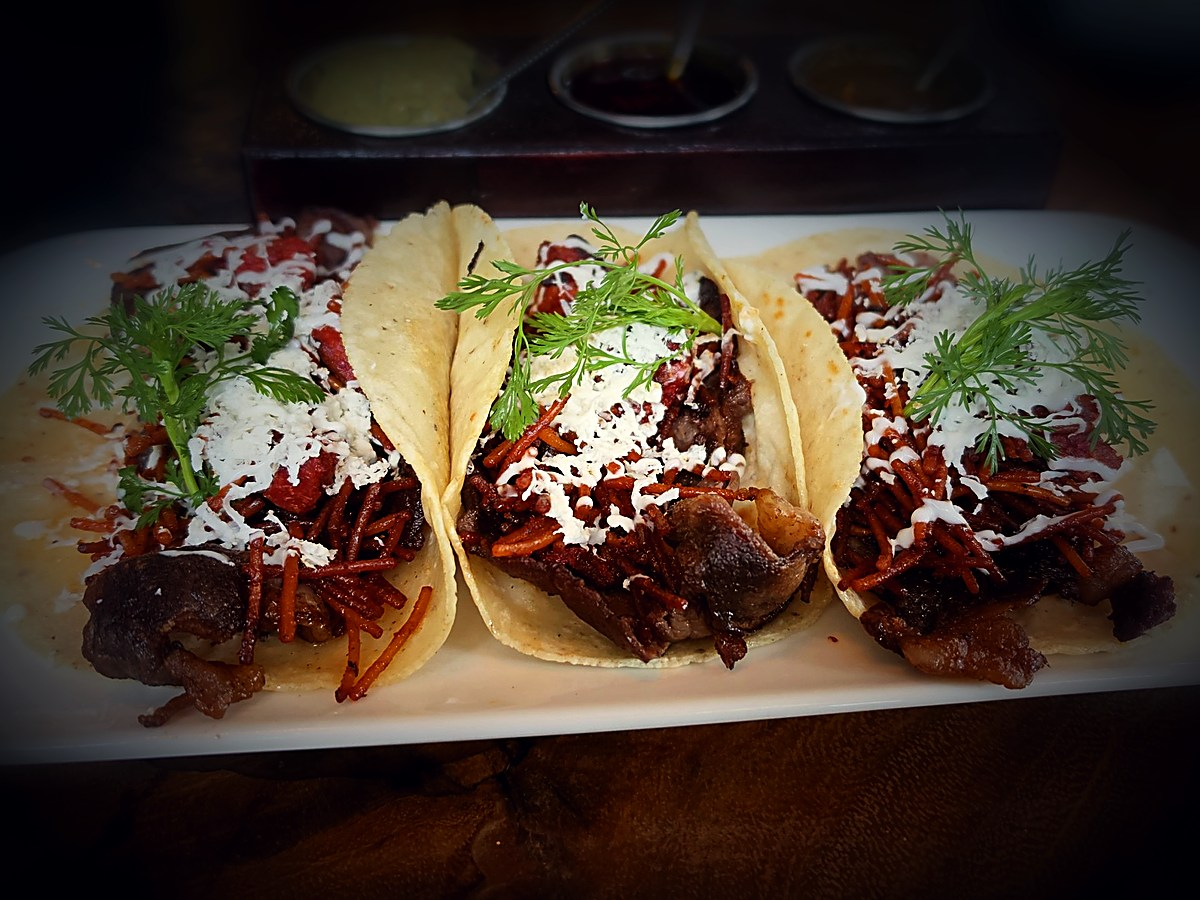
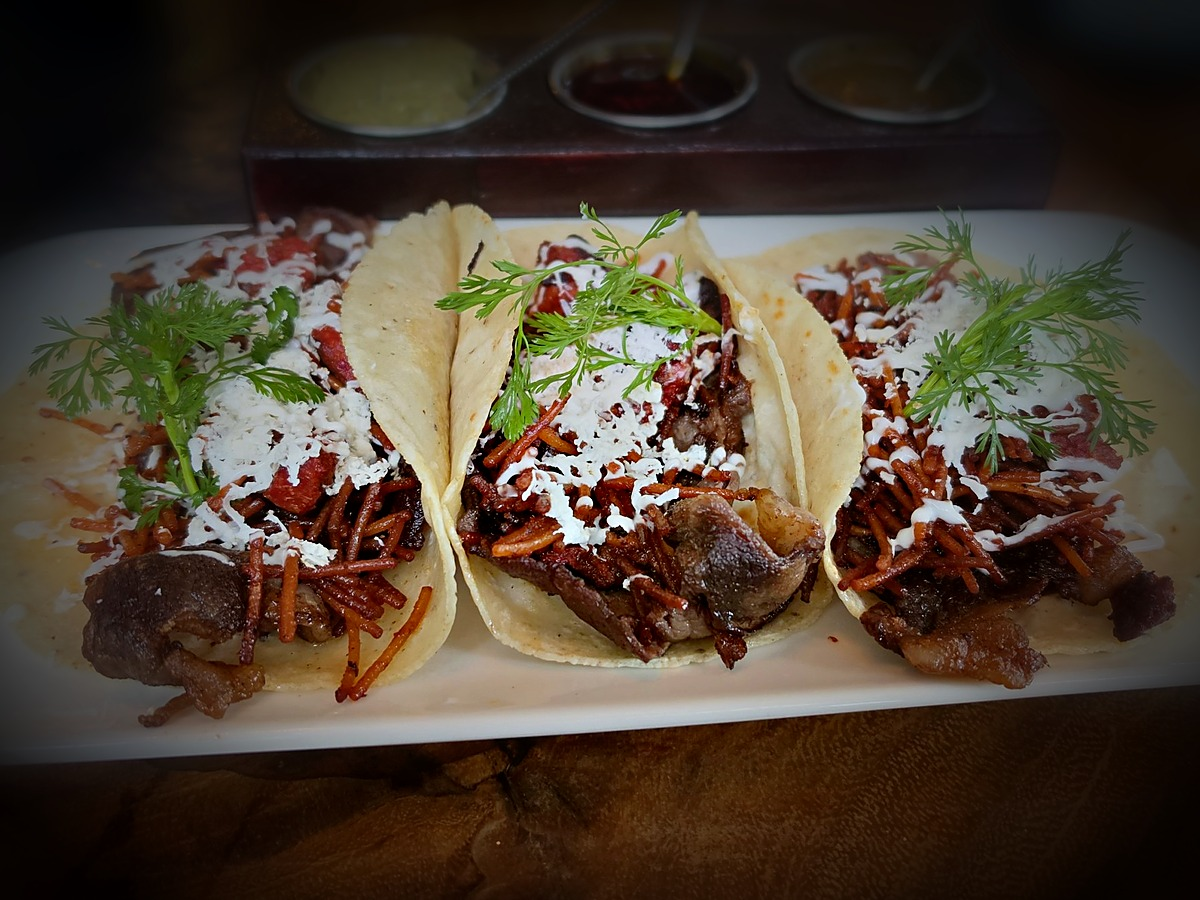
Revelado fino de la foto del Taco Gaonera (VER 43)
Recupera la crema quemada, abre la sombra del fideo y agrega contraste
local pesado hacia el plato, dejando el fondo hundido.

Claude-Session: https://claude.ai/code/session_01267DXcQMBVnpnCevQeSi3R

Changed region(s): [[0.1233, 0.2489, 0.8942, 0.7778], [0.37, 0.84, 0.6783, 0.9333]]

diff --git a/index.html b/index.html
@@ -549,7 +549,7 @@ body.sin-scroll{overflow:hidden}
 
 /* Sube este número cada vez que reemplaces una foto. Obliga a los
    navegadores a pedirla de nuevo en vez de usar la que tenían guardada. */
-const VER = "42";
+const VER = "43";
 
 const CONFIG = {
   // Deja "" en lo que todavía no tengas: el botón simplemente no aparece.
